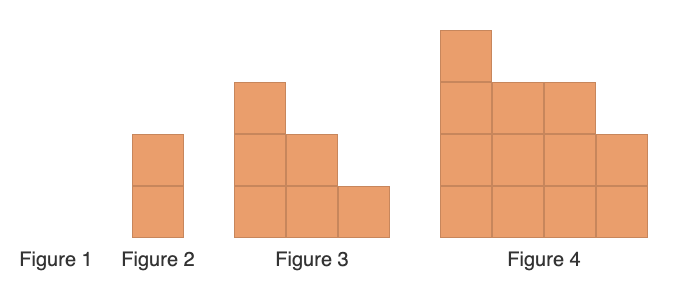
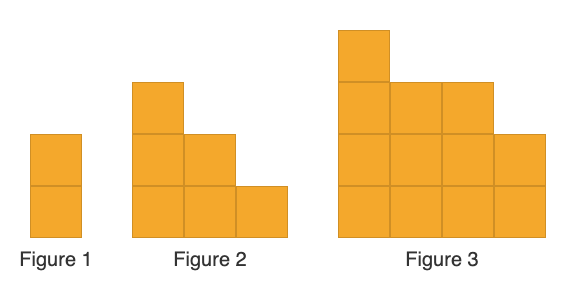
h

diff --git a/patterns-data.js b/patterns-data.js
@@ -94,16 +94,16 @@ const patterns = [
   { n: 88,  count: "1,892 squares", by: "Fawn", img: "images/pattern-88.png" , eq: "n^2 + n" },
   { n: 89,  count: "307,105 squares", by: "Fawn", img: "images/pattern-89.png" , eq: "4n^3 - 6n^2 + 4n - 1" },
   { n: 90,  count: "218 squares", by: "Fawn", img: "images/pattern-90.png" , eq: "5n + 3" },
-  { n: 91,  count: "2,023 squares", by: "Fawn", img: "images/pattern-91.png" , eq: "" },
+  { n: 91,  count: "2,023 squares", by: "Fawn", img: "images/pattern-91.png" , eq: "n^2 + 4n + 2" },
   { n: 92,  count: "1,806 squares", by: "Fawn", img: "images/pattern-92.png" , eq: "" },
-  { n: 93,  count: "3,786 squares", by: "Fawn", img: "images/pattern-93.png" , eq: "" },
-  { n: 94,  count: "948 squares", by: "Fawn", img: "images/pattern-94.png" , eq: "" },
-  { n: 95,  count: "216 squares", by: "Fawn", img: "images/pattern-95.png" , eq: "" },
-  { n: 96,  count: "176 squares", by: "Fawn", img: "images/pattern-96.png" , eq: "" },
-  { n: 97,  count: "8,796,093,022,254 squares", by: "Fawn", img: "images/pattern-97.png" , eq: "" },
-  { n: 98,  count: "2/3 shaded in", by: "Fawn", img: "images/pattern-98.png" , eq: "" },
-  { n: 99,  count: "3,954 sq pieces (inc bottom)", by: "Simon Gregg's students William & Ella-May (Year 5)", img: "images/pattern-99.png" , eq: "" },
-  { n: 100,  count: "1.0941899e+20 yellow triangles, 5.4709495e+19 green triangles", by: "Fawn", img: "images/pattern-100.png" , eq: "" },
+  { n: 93,  count: "3,786 squares", by: "Fawn", img: "images/pattern-93.png" , eq: "2n^2 + 2n + 2" },
+  { n: 94,  count: "948 squares", by: "Fawn", img: "images/pattern-94.png" , eq: "(n^2 + n + 4)/2" },
+  { n: 95,  count: "216 squares", by: "Fawn", img: "images/pattern-95.png" , eq: "5n + 1" },
+  { n: 96,  count: "176 squares", by: "Fawn", img: "images/pattern-96.png" , eq: "4n + 4" },
+  { n: 97,  count: "8,796,093,022,254 squares", by: "Fawn", img: "images/pattern-97.png" , eq: "2^n + n + 3" },
+  { n: 98,  count: "2/3 shaded in", by: "Fawn", img: "images/pattern-98.png" , eq: "shaded = (2^(n+1) + (-1)^n)/(3*2^n)" },
+  { n: 99,  count: "3,954 sq pieces (inc bottom)", by: "Simon Gregg's students William & Ella-May (Year 5)", img: "images/pattern-99.png" , eq: "2n^2 + 6n - 2" },
+  { n: 100,  count: "1.0941899e+20 yellow triangles, 5.4709495e+19 green triangles", by: "Fawn", img: "images/pattern-100.png" , eq: "yellow = 3^(n-1), green = (3^(n-1) - 1)/2" },
   { n: 101,  count: "1,853 squares", by: "Kate Nowak", img: "images/pattern-101.png" , eq: "" },
   { n: 102,  count: "1,848 squares", by: "Kate Nowak", img: "images/pattern-102.png" , eq: "" },
   { n: 103,  count: "2,116 squares", by: "Kate Nowak", img: "images/pattern-103.png" , eq: "" },

diff --git a/key.html b/key.html
@@ -260,8 +260,14 @@ function classify(eq){
   if(!eq || !eq.trim()) return "missing";
   // absolute-value patterns are V-shaped, not a straight line -> "other"
   if(/abs\s*\(/i.test(eq) || /\|.*\|/.test(eq)) return "other";
-  // exponential growth (something raised to the n, like 3^n or 2^n) is always "other"
-  if(/\^\s*n\b/i.test(eq)) return "other";
+  // exponential growth: catches both bare "^n" and parenthesized exponents
+  // that contain n anywhere inside, like "3^(n-1)" or "2^((n+3)/2)".
+  const expRe = /\^(\([^()]*(?:\([^()]*\)[^()]*)*\)|-?\w+)/g;
+  let expMatch, hasVariableExponent = false;
+  while((expMatch = expRe.exec(eq)) !== null){
+    if(/n/i.test(expMatch[1])){ hasVariableExponent = true; break; }
+  }
+  if(hasVariableExponent) return "other";
   const hasHigherPower = /n\s*(\^|\*\*)\s*[3-9]/i.test(eq);
   if(hasHigherPower) return "other";
   const hasSquare = /n\s*(\^|\*\*)?\s*2|n\s*²|n\s*\*\s*n/i.test(eq);